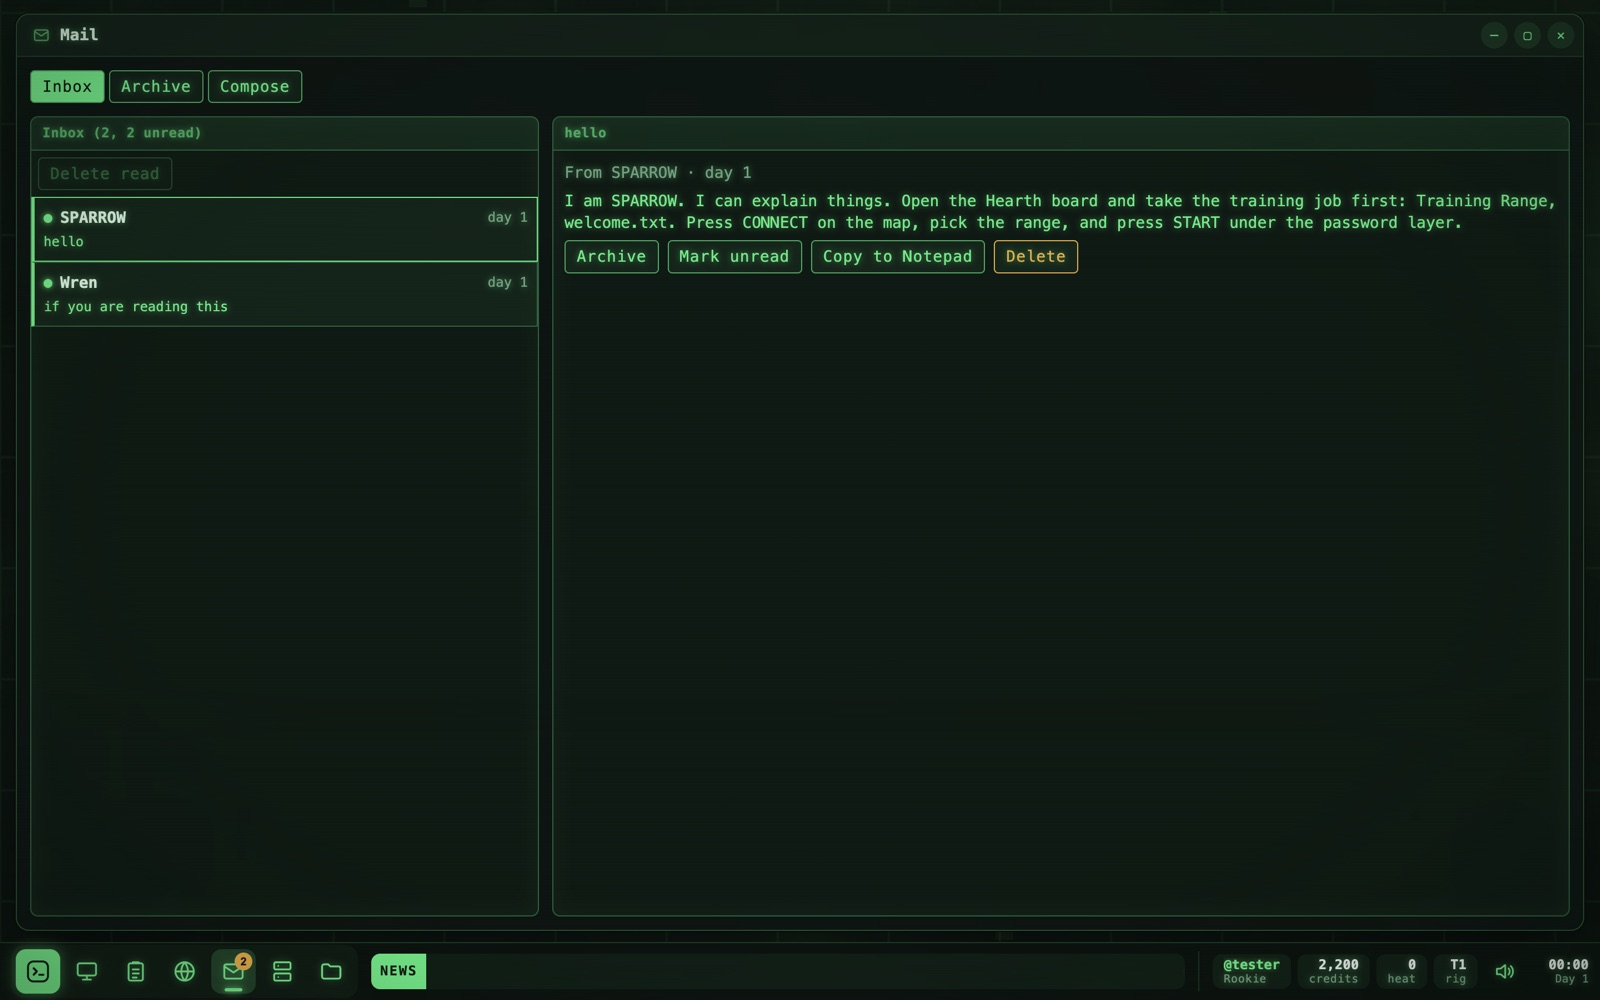
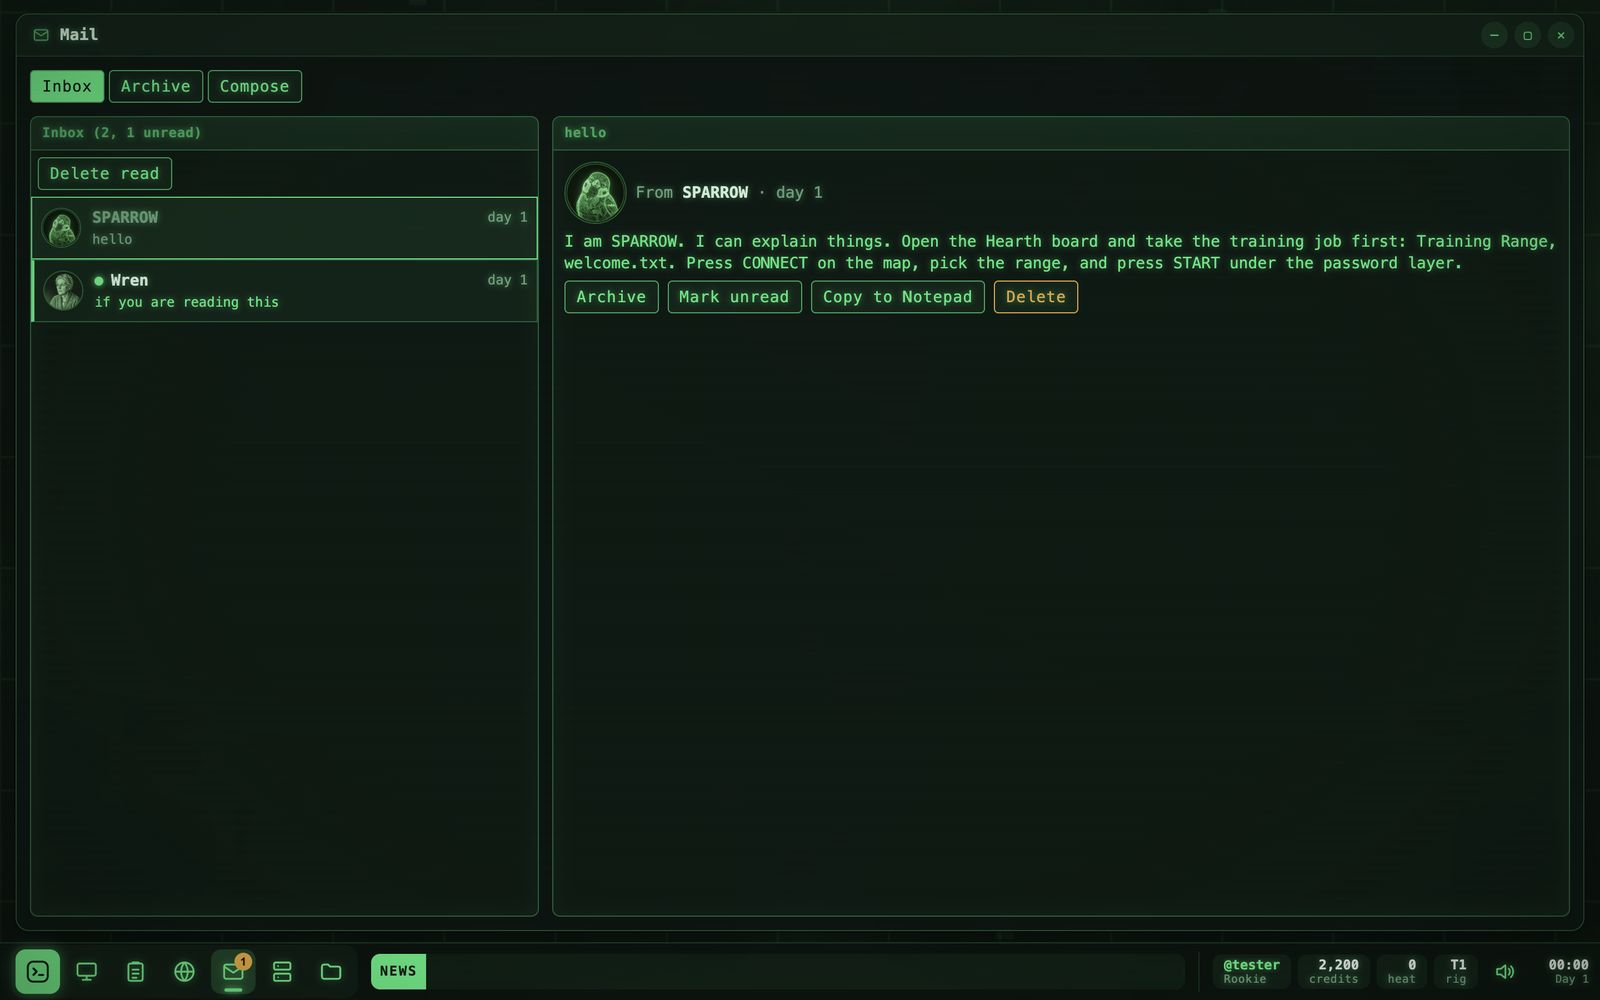
Refresh README screenshots and add shop, news and act card shots

Changed region(s): [[0.0, 0.155, 0.9688, 0.341]]

diff --git a/README.md b/README.md
@@ -25,6 +25,7 @@ The Meridian consortium rations the world's compute, and you are a freelance **r
 - **Hardware to grow into.** Five rig tiers. Upgrade CPU, GPU, RAM, cooling and network, rent a vault, run scripts.
 - **Heat and consequences.** Leaks, Squawk posts and sloppy logs raise your heat. Too much and your rig gets seized.
 - **Three difficulties.** Tourist, Runner and Ghost. On Ghost, a seizure ends the run.
+- **Illustrated throughout.** Portraits for everyone who mails you, a picture for every kind of target, shop renders, news photos and act title cards.
 - **Original procedural music and sound.** No samples, all generated live.
 - **Plain JSON saves** that you can back up or carry between computers.
 
@@ -35,7 +36,8 @@ The Meridian consortium rations the world's compute, and you are a freelance **r
 | ![Boot](screenshots/boot.jpg) **BIOS boot** | ![Desktop](screenshots/hub.jpg) **Desktop** |
 | ![Contracts](screenshots/board.jpg) **Hearth board: contracts** | ![Connect](screenshots/map.jpg) **Connect: plan your bounce chain** |
 | ![Live link](screenshots/hack.jpg) **Live link: crack the layers** | ![Gateway](screenshots/gateway.jpg) **Gateway: your rig** |
-| ![Mail](screenshots/mail.jpg) **Mail, with inbox and archive** | |
+| ![Mail](screenshots/mail.jpg) **Mail, with inbox and archive** | ![Shop](screenshots/shop.jpg) **Shop: upgrade your rig** |
+| ![News](screenshots/news.jpg) **NewsGrid: the world reacts** | ![Act card](screenshots/act.jpg) **Act II: The Throttle** |
 
 ## Download
 
